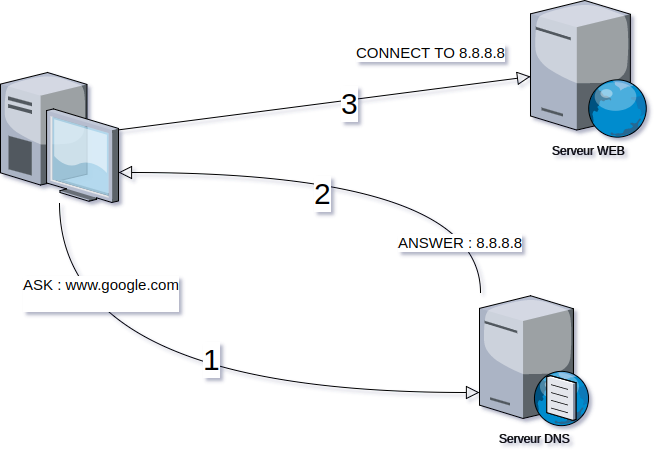
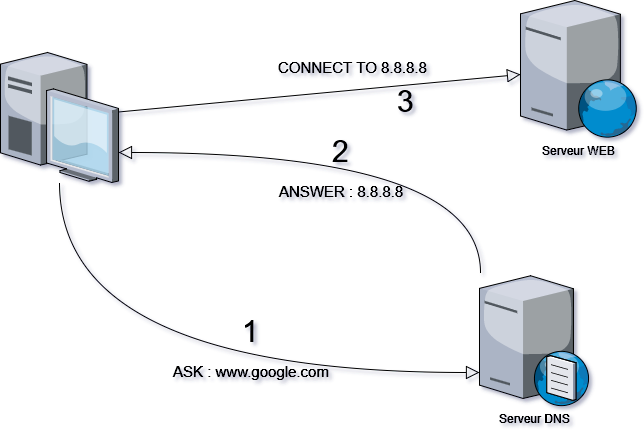
[FEAT] Finished

Changed region(s): [[0.0, 0.0, 0.9938, 0.6334], [0.0311, 0.4826, 0.9317, 0.9954]]

diff --git a/report/cpp/tp7+tp8.tex b/report/cpp/tp7+tp8.tex
@@ -6,19 +6,41 @@
 \subsection{Exercice 1 : Découverte de la commande nc : netcat}
 \textit{L’objectif de cet exercice est de nous familiariser avec une commande puissante appelée \mintinline{shell}{nc}. Cette commande, inspirée de la commande \mintinline{shell}{cat}, permet d’afficher et de recevoir un flux d’octets, non pas à l’écran et depuis le clavier, mais sur ou depuis le réseau, et plus précisément vers un processus distant identifié par une adresse ip un numéro de port et un mode (connecté "TCP" ou non connecté "UDP")}
 
+Afin de lancer un serveur TCP sur le port 3000 nous utilisons la commande \mintinline{shell}{nc -l 3000}. Elle affichera à l'écran tous les messages recu par le serveur.
+Afin de lancer un client TCP qui se connectera au serveur TCP nous utilisons la commande \mintinline{shell}{nc localhost 3000}
+
 \subsection{Exercice 2 : Utilisation de la commande nc : netcat pour le transfert de fichier et l’évaluation de la bande passante}
 \textit{La commande netcat, souvent réduite au nom nc, est un utilitaire très puissant qui reprend le principe de la commande cat sur un support réseau. Les possibilités de cette commande sont énormes, et permettent de mettre en place très simplement un serveur en mode connecté ou non connecté pour transférer du texte ou un fichier. Cette commande peut également jouer le rôle de client.}
+
+Pour transférer un fichier il faut :
+\begin{itemize}
+  \item Coté émetteur : utiliser la commande \mintinline{shell}{nc <ip_address>:<port> > <filename>}
+  \item Coté récepteur : utiliser la commande \mintinline{shell}{nc <ip_address>:<port> < <filename>}
+\end{itemize}
+
+La commande \mintinline{shell}{time} mise avant \mintinline{shell}{nc} nous pouvons avoir les informations de temps de transfert.
 
 \subsection{Exercice 3 : Une histoire de serveurs concurrents ...}
 \textit{Dans cet exercice, nous regardons quelles capacités de cohabitation existent entre des serveurs qui voudraient utiliser le même port de communication}
 
-\subsection{Exercice 4 : Comprendre une requête HTTP}
-\textit{Dans cet exercice, nous regardons une utilisation simple et originale de \mintinline{shell}{netcat} : comprendre ce que votre navigateur internet envoie comme information lorsqu’il effectue une requête sur un site web}
+Il est possible de connecter plusieurs serveur tcp.
+\begin{itemize}
+  \item Le premier hôte se connectera au premier server TCP créé.
+  \item Le deuxième hôte se connectera au deuxième server TCP créé.
+  \item ainsi de suite.
+\end{itemize}
+Il en est de même pour la connexion de plusieurs serveurs UDP.
+
+Si nous souhaitons faire un montage avec un serveur tcp et un serveur udp, les clients tcp communiqueraient avec le serveur tcp et les clients udp avec les serveurs udp.
+Il s'affichera un message d'erreur sur les serveur TCP \texttt{Address already use}. Cela signifie que si nous nous connectons sur un port avec plusieurs serveurs nous discuterons avec les deux serveurs.
+
+%\subsection{Exercice 4 : Comprendre une requête HTTP}
+%\textit{Dans cet exercice, nous regardons une utilisation simple et originale de \mintinline{shell}{netcat} : comprendre ce que votre navigateur internet envoie comme information lorsqu’il effectue une requête sur un site web}
 
 \section{Développement d’un client et d’un serveur en C}
-
 \subsection{Exercice 5 : Mise en place d’une communication en mode non connecte}
 \textit{L’objectif de cet exercice est de découvrir les fonctions et structures de base en C permettant une communication en mode non connecté UDP.}
+
 Nous proposerons le code ci-dessous afin d'implementer un client UDP ayant le comportement demandé :
 \inputminted[linenos,firstline=31, lastline=87]{cpp}{../sources/cpp/TP7-8/clientUDP.c}
 
@@ -28,8 +50,22 @@ Nous proposerons le code ci-dessous afin d'implementer un serveur UDP ayant le c
 Après avoir lancé le serveur UDP nous testerons la communication entre le serveur UDP et le client UDP à l'aide de la commande \mintinline{bash}{UDClient <IP> <port> <message>} ainsi nous précisons au client l'IP et le port du serveur mais aussi le message que nous souhaitons envoyer.
 \mintinline{shell}{0.0.0.0 5000 "tset ysae"}
 
+Le message reviens dans le même ordre \texttt{tset ysae}.
+
 \subsection{Exercice 6 : Création d’une architecture (client UDP) - (relai UDP-TCP) - (serveur TCP)}
+
 \textit{L'objectif de cet exercice est de manipuler les deux mode (connecté et non connecté), en faisant communiquer un serveur tournant en TCP avec un client tournant en UDP. Cette communication n’est pas directement possible et nécessite un processus intermédiaire qui fera le relai entre le client et serveur.}
+
+À l'aide des instructions donné dans le sujet de l'exercice nous pouvons implémenter le code principale d'un serveur TCP étant similaire à celui d'un serveur UDP:
+\inputminted[linenos, firstline=34, lastline=104]{cpp}{../sources/cpp/TP7-8/serveurTCP.c}
+
+Nous pouvons ensuite implémenter le le code du relai UDP-TCP :
+\inputminted[linenos, firstline=34, lastline=104]{cpp}{../sources/cpp/TP7-8/relaiUDPTCP.c}
+
+Après avoir lancé le serveur TCP ainsi que le relai UDP-TCP nous testerons la communication entre le serveur UDP, le relai UDP TCP et le server TCP à l'aide de la commande \mintinline{bash}{UDPClient <IP> <port> <message>} ainsi nous précisons au client l'IP et le port du serveur mais aussi le message que nous souhaitons envoyer.
+\mintinline{shell}{0.0.0.0 5000 "tset ysae"}
+
+Le message reviens dans le même ordre \texttt{easy test}.
 
 \begin{figure}[H]
 \centering
@@ -38,14 +74,12 @@ Après avoir lancé le serveur UDP nous testerons la communication entre le serv
 \label{Relai UDP-TCP}
 \end{figure}
 
-À l'aide des instructions donné dans le sujet de l'exercice nous pouvons implémenter le code principale d'un serveur TCP étant similaire à celui d'un serveur UDP.
-
-\inputminted[linenos,firstline=34, lastline=104]{cpp}{../sources/cpp/TP7-8/serveurTCP.c}
-
 \section{Exercices bonus}
-
 \subsection{Exercice 7 : Résolution de noms}
 \textit{Cet exercice à pour objectif de manipuler la fonction \mintinline{cpp}{gethostbyname()}. Cette fonction permet de transformer des noms de domaines en adresse ip, en interrogeant un serveur DNS.}
+Les différents appareils connecté à internet communique entre eux grâce aux adresse IP. Afin d'accéder aux adresse IP depuis un nom de domaine, les appareils demandent à un serveur DNS. DNS signifie système de nom de domaine (Domain Name System en anglais).
+
+On peut facilement prendre pour exemple l'accès à l'adresse \texttt{google.fr} et le schématiser de la manière suivante :
 
 \begin{figure}[H]
 \centering
@@ -54,7 +88,9 @@ Après avoir lancé le serveur UDP nous testerons la communication entre le serv
 \label{Résolution DNS}
 \end{figure}
 
-A l’aide du manuel et des exemples disponibles sur internet, ainsi que de la documentation de la fonction \mintinline{cpp}{gethostbyname()} permettant la translation d’un nom de domaine vers une adresse IP. J'ai créé un programme qui affiche les adresses IP des noms de domaine "www.yahoo.fr", "www.gmail.com" et "www.u-bourgogne.fr".
+La machine demande au serveur DNS l'adresse IP du domaine \texttt{google.fr} qui lui répond \texttt{8.8.8.8}, ainsi la machine pourra se connecter au serveur à l'adresse indiqué.
+
+À l’aide du manuel et des exemples disponibles sur internet, ainsi que de la documentation de la fonction \mintinline{cpp}{gethostbyname()} permettant la translation d’un nom de domaine vers une adresse IP. J'ai créé un programme qui affiche les adresses IP des noms de domaine "www.yahoo.fr", "www.gmail.com" et "www.u-bourgogne.fr".
 
 \inputminted[linenos,firstline=10, lastline=36]{cpp}{../sources/cpp/TP7-8/getHostByName.c}
 

diff --git a/report/main.tex b/report/main.tex
@@ -86,7 +86,10 @@
 
 \chapter*{Introduction}\addcontentsline{toc}{part}{\texorpdfstring{\protect\@myparttocformat{Introduction}}{Introduction}}
 
-\lipsum[1-3]
+Ce rapport contient le compte-rendu des travaux pratiques d’Informatique (Module ITC313) concernant les parties UNIX ainsi que C/C++.
+Nous allons appliqué les différents principes informatiques étudiés en cours comme des appels systèmes, la gestion des processus et l'héritage.
+Nous allons aussi étudier la manipulation de structures de données, la communication distante via l’utilisation de sockets de communication ou encore le principe de l’héritage.
+L’objectif de ces travaux pratiques est d’appréhender et d’approfondir ces différentes parties qui sont essentielles dans la compréhension de l’informatique dans sa globalité, ces notions sont des bases nécessaires au développement de programmes informatiques.
 
 \cleardoublepage % Forces the table of contents chapter to start on an odd page so it's on the right
 
@@ -155,7 +158,7 @@
 
 \chapter*{Conclusion}\addcontentsline{toc}{part}{\texorpdfstring{\protect\@myparttocformat{Conclusion}}{Conclusion}}
 
-\lipsum[1-3]
+Les travaux pratiques éffectué m'ont permis de revoir déja rencotnre en DUT et de les approfondir. Ainsi j'ai pu en apprendre plus sur des notions que j'avais en parti acquise, et qui font que j'aime l'informatique puisqu'on en découvre toujours plus.
 
 \pagestyle{fancy}
 
